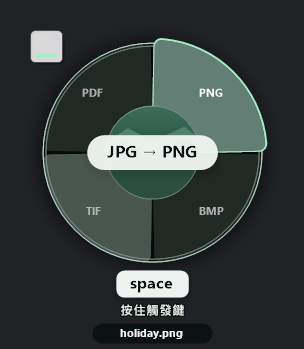
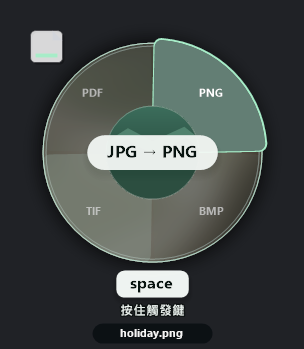
docs: English README with a language switch, and the second-layer wheel

Changed region(s): [[0.1184, 0.1146, 0.8586, 0.7736]]

diff --git a/README.md b/README.md
@@ -1,128 +1,124 @@
 # Confern
 
-**把檔案拖到輪盤上，就開始轉檔。** Windows 10/11 x64 的桌面轉檔工具：拖進來、轉一下、選格式，不用開任何視窗。
+**Hold Alt, drag a file, drop it on the format you want.** A Windows 10/11 desktop converter with no main window: a radial menu appears next to your cursor, you pick a target format, it converts.
 
-[**下載最新版**](https://github.com/bboyjokerd-max/confern/releases/latest) · [授權 MIT](LICENSE) · [回報問題](https://github.com/bboyjokerd-max/confern/issues)
+[**Download**](https://github.com/bboyjokerd-max/confern/releases/latest) · [MIT licence](LICENSE) · [Report a bug](https://github.com/bboyjokerd-max/confern/issues) · **English** | [繁體中文](README.zh-Hant.md)
 
-![拖到輪盤上就開始轉檔](docs/demo/confern-demo.gif)
+![Drag a file onto the wheel to convert it](docs/demo/confern-demo.gif)
 
-<sub>↑ 實際操作畫面（[高畫質 mp4](docs/demo/confern-demo.mp4)）　錄製於 2026-11-03，內容就是這個版本的行為。</sub>
+<sub>↑ Real interaction, recorded 2026-11-03 ([higher quality mp4](docs/demo/confern-demo.mp4)).</sub>
 
 ---
 
-## 畫面
+## What it is
 
-拖什麼檔案，輪盤就長什麼樣子。
+While you drag a file with the trigger key held down (Alt by default), a wheel appears beside the cursor. Its slices are **the formats that file can become**. Drop on a slice to convert; drop on the centre to do nothing. The result lands next to the original.
 
-<table>
-<tr>
-<td align="center"><img src="docs/images/wheel-paid.png" width="300"><br><sub>拖的是圖片：扇形就是這張圖能變成的格式</sub></td>
-<td align="center"><img src="docs/images/wheel-video.png" width="300"><br><sub>拖的是影片，扇形跟著換一批</sub></td>
-</tr>
-<tr>
-<td align="center"><img src="docs/images/wheel-paid-dark.png" width="300"><br><sub>深色桌布下的同一顆輪盤</sub></td>
-<td align="center"><img src="docs/images/settings.png" width="300"><br><sub>設定頁（右鍵托盤圖示）</sub></td>
-</tr>
-</table>
-
-![裁切：拖曳決定要留下哪一塊](docs/images/crop.png)
-
-<sub>裁切視窗：決定要留下哪一塊</sub>
-
-
-<sub>以上都是產品自己的離屏渲染（`--wheel-demo --wheel-dump`、`--settings-ui-dump`、`--crop-ui-dump`），不是螢幕截圖。</sub>
-
-## 這是什麼
-
-按住觸發鍵（預設 Alt）拖著檔案移動時，一個圓形輪盤會出現在游標旁邊，上面是**這個檔案可以轉成的格式**。
-拖到要的扇形上放開，就開始轉；拖到中心，什麼都不做。轉好的檔案出現在原檔旁邊。
-
-沒有主視窗、沒有佇列、沒有要學的介面。它是一個拖曳手勢，不是一個應用程式。
+No main window. No queue. No interface to learn. It is a drag gesture, not an application.
 
 | | |
 |---|---|
-| 影像 | PNG · JPG · BMP · TIF · PDF · WebP（含透明背景） |
-| 影片 | 常見格式互轉、抽音訊 |
-| 文件 | 影像轉 PDF |
-| AI 去背 | **CUTOUT**：拖進來，拿走只剩主角的透明 PNG（付費版） |
+| Images | PNG · JPG · BMP · TIF · PDF · WebP (transparency preserved) |
+| Video | common formats both ways, audio extraction |
+| Documents | images to PDF |
+| AI cutout | **CUTOUT**: drop a photo, get a transparent PNG of the subject (paid edition) |
 
-## 兩個版本，同一份原始碼
+## Two editions, one source
 
-這不是「閹割版 vs 完整版」的行銷話術，是**少一顆工具**。
+This is not "crippled vs complete". The free edition is simply **one tool short**.
 
-| | 免費開源版 | 付費版 |
+| | Free / open source | Paid |
 |---|---|---|
-| 拖曳輪盤轉檔 | ✓ | ✓ |
-| 影片、PDF、批次 | ✓ | ✓ |
-| **CUTOUT（AI 去背）** | — 沒有這顆工具 | ✓ 附 10 次免費額度 |
-| 價格 | 免費 | 授權金鑰，離線驗證 |
+| Wheel conversions | yes | yes |
+| Video, PDF, batch | yes | yes |
+| **CUTOUT (AI background removal)** | does not exist in this build | 10 free uses included |
+| Price | free | licence key, verified offline |
 
-免費版**沒有**去背功能，不是鎖住。少一顆扇形，其餘完全一樣。
+The free edition does not have a locked cutout feature; it has one fewer slice on the wheel.
 
-## 系統需求
+## Screens
 
-- Windows 10 或 11，x64
-- [.NET 8 桌面執行階段](https://dotnet.microsoft.com/download/dotnet/8.0)（安裝程式會檢查，沒有會提示）
+The wheel shows what the dragged file can become. Choose a format and the wheel turns again — **the second layer is what to do with it**.
 
-## 安裝
+<table>
+<tr>
+<td align="center"><img src="docs/images/wheel-paid.png" width="300"><br><sub><b>First layer</b>: an image was dragged, so the slices are its target formats</sub></td>
+<td align="center"><img src="docs/images/wheel-tools-paid.png" width="300"><br><sub><b>Second layer</b>: convert, crop, merge, <b>CUTOUT</b>…</sub></td>
+</tr>
+<tr>
+<td align="center"><img src="docs/images/wheel-video.png" width="300"><br><sub>Drag a video and the slices change with it</sub></td>
+<td align="center"><img src="docs/images/wheel-tools-free.png" width="300"><br><sub>Second layer in the <b>free</b> build — no CUTOUT slice</sub></td>
+</tr>
+</table>
 
-1. 到 [Releases](https://github.com/bboyjokerd-max/confern/releases/latest) 下載安裝檔
-2. 執行，**不需要管理員權限**（裝在使用者資料夾）
-3. 開始拖檔案
+The two second-layer images are genuinely different files (sha256 `42F6A236…` vs `23750A7D…`): that is what "one tool short" looks like.
 
-解除安裝時會問你：要不要一起刪掉設定與授權（預設保留）。
+<table>
+<tr>
+<td align="center"><img src="docs/images/wheel-paid-dark.png" width="300"><br><sub>Same wheel over a dark background</sub></td>
+<td align="center"><img src="docs/images/settings.png" width="300"><br><sub>Settings (right-click the tray icon)</sub></td>
+</tr>
+</table>
 
-## 使用
+![Crop window](docs/images/crop.png)
 
-| 動作 | 怎麼做 |
+<sub>Crop: drag to decide what to keep. Every image above is the product's own offscreen render (`--wheel-demo --wheel-dump`, `--wheel-tools`, `--settings-ui-dump`, `--crop-ui-dump`), not a screenshot of a desktop.</sub>
+
+## Requirements
+
+- Windows 10 or 11, x64
+- [.NET 8 Desktop Runtime](https://dotnet.microsoft.com/download/dotnet/8.0) (the installer checks and tells you)
+
+## Install
+
+1. Get the installer from [Releases](https://github.com/bboyjokerd-max/confern/releases/latest)
+2. Run it — **no administrator rights needed** (it installs per user)
+3. Start dragging files
+
+Uninstalling asks whether to remove your settings and licence too (kept by default).
+
+## Using it
+
+| Action | How |
 |---|---|
-| 叫出輪盤 | 按住 **Alt**，拖著檔案移動 |
-| 選格式 | 拖到對應的扇形上放開 |
-| 取消 | 拖到圓盤中心放開，或按 `Esc` |
-| 監看資料夾 | 設定某個資料夾，丟進去的檔案自動轉 |
-| 批次 | 一次拖多個檔案進來 |
-| 設定 | 右鍵托盤圖示 |
+| Show the wheel | hold **Alt** and drag a file |
+| Pick a format | drop on that slice |
+| Cancel | drop on the centre disc, or press `Esc` |
+| Watch a folder | point the setting at it and forget about it |
+| Batch | drag several files at once |
+| Settings | right-click the tray icon |
 
-轉好的檔案放在**原檔旁邊**，檔名相同、副檔名不同。原檔不會被動到。
+Converted files are written **next to the original** with the same name and a new extension. The original is never modified.
 
-## 命令列
+## Command line
 
-產品自己就是一支可診斷的命令列工具（GUI 沒有主控台，證據寫在日誌與 stderr）：
-
-```
-Confern.exe formats                     列出這台機器支援的格式
-Confern.exe convert in.png -o out.jpg   轉一個檔案
-Confern.exe check-updates               問一次有沒有新版本
-Confern.exe license                     授權狀態
-Confern.exe --help                      全部旗標
-```
-
-## 從原始碼建置
+The product is its own diagnostic tool (it is a GUI process, so evidence goes to stderr and the log file):
 
 ```
-dotnet build src\Sidecar\Sidecar.csproj -c Release                 # 付費版
-dotnet build src\Sidecar\Sidecar.csproj -c Release -p:Edition=Free # 免費版
+Confern.exe formats                     list the formats this machine supports
+Confern.exe convert in.png -o out.jpg   convert one file
+Confern.exe check-updates               ask once whether a newer build exists
+Confern.exe license                     licence state and remaining uses
+Confern.exe --help                      every flag
 ```
 
-需要 .NET 8 SDK。安裝檔用 Inno Setup：`powershell -File tools\build-installer.ps1`。
+## Build from source
 
-## 專案狀態
+```
+dotnet build src\Sidecar\Sidecar.csproj -c Release                 # paid edition
+dotnet build src\Sidecar\Sidecar.csproj -c Release -p:Edition=Free # free edition
+```
 
-早期但可用（`0.1.0`）。驗收是 20 套自動化套件、687 個檢查，跑在真實的視窗與檔案上——
-包括「拖曳途中才拿得到酬載」這種只有實際拖過才知道的事。
+Requires the .NET 8 SDK. Installers: `powershell -File tools\build-installer.ps1` (Inno Setup).
 
-`docs/` 裡有完整的設計規格、逐日進度與一次「假故障稽核」（哪些斷言其實永遠不會紅）。
+## Status
 
-## 授權
+Early but usable (`0.1.0`). Verification is 20 automated suites and 687 checks running against real windows and real files — including things you only learn by actually dragging, like "the payload is only reachable mid-drag".
 
-[MIT](LICENSE)。你可以自由使用、修改、再散布，包含商業用途。
+`docs/` holds the design spec, a daily progress log, and a falsifiability audit (which assertions could never fail).
 
-**誠實說明**：授權是 MIT，所以任何人都能自己編一個沒有 10 次限制的去背版。
-付費版是信任制——我們選擇這樣，因為擋不住的事寫在文件裡比寫在程式裡誠實。
+## Licence
 
----
+[MIT](LICENSE). Use it, modify it, redistribute it, sell it.
 
-<sub>English: Confern is a drag-and-drop file converter for Windows. Hold Alt, drag a file, and a
-radial menu appears with the formats that file can become; drop on a slice to convert. No main
-window. The paid edition adds CUTOUT (AI background removal); the free, open-source edition simply
-does not have that one tool. MIT licensed.</sub>
+**Plainly**: MIT means anyone can build a cutout with no 10-use limit. The paid edition is an honour system — we would rather write that here than pretend a lock exists.

diff --git a/README.zh-Hant.md b/README.zh-Hant.md
@@ -1,0 +1,139 @@
+# Confern
+
+[English](README.md) | **繁體中文**
+
+**把檔案拖到輪盤上，就開始轉檔。** Windows 10/11 x64 的桌面轉檔工具：拖進來、轉一下、選格式，不用開任何視窗。
+
+[**下載最新版**](https://github.com/bboyjokerd-max/confern/releases/latest) · [授權 MIT](LICENSE) · [回報問題](https://github.com/bboyjokerd-max/confern/issues)
+
+![拖到輪盤上就開始轉檔](docs/demo/confern-demo.gif)
+
+<sub>↑ 實際操作畫面（[高畫質 mp4](docs/demo/confern-demo.mp4)）　錄製於 2026-11-03，內容就是這個版本的行為。</sub>
+
+---
+
+## 畫面
+
+拖什麼檔案，輪盤就長什麼樣子。選定格式之後，輪盤再轉一層——**第二層是「要做什麼」**：
+
+<table>
+<tr>
+<td align="center"><img src="docs/images/wheel-tools-paid.png" width="300"><br><sub><b>第二層（付費版）</b>：轉檔、裁切、合併、<b>CUTOUT 去背</b>…</sub></td>
+<td align="center"><img src="docs/images/wheel-tools-free.png" width="300"><br><sub><b>第二層（免費版）</b>：同一支程式，沒有 CUTOUT 那一顆</sub></td>
+</tr>
+</table>
+
+上面兩張是**真的不一樣**（sha256 不同：`42F6A236…` vs `23750A7D…`）——這就是「免費版少一顆工具」的實際樣子。
+
+<table>
+<tr>
+<td align="center"><img src="docs/images/wheel-paid.png" width="300"><br><sub><b>第一層</b>：拖的是圖片，扇形是它<b>能變成</b>的格式</sub></td>
+<td align="center"><img src="docs/images/wheel-video.png" width="300"><br><sub>拖的是影片，扇形跟著換一批</sub></td>
+</tr>
+<tr>
+<td align="center"><img src="docs/images/wheel-paid-dark.png" width="300"><br><sub>深色桌布下的同一顆輪盤</sub></td>
+<td align="center"><img src="docs/images/settings.png" width="300"><br><sub>設定頁（右鍵托盤圖示）</sub></td>
+</tr>
+</table>
+
+![裁切：拖曳決定要留下哪一塊](docs/images/crop.png)
+
+<sub>裁切視窗：決定要留下哪一塊</sub>
+
+
+<sub>以上都是產品自己的離屏渲染（`--wheel-demo --wheel-dump`、`--settings-ui-dump`、`--crop-ui-dump`），不是螢幕截圖。</sub>
+
+## 這是什麼
+
+按住觸發鍵（預設 Alt）拖著檔案移動時，一個圓形輪盤會出現在游標旁邊，上面是**這個檔案可以轉成的格式**。
+拖到要的扇形上放開，就開始轉；拖到中心，什麼都不做。轉好的檔案出現在原檔旁邊。
+
+沒有主視窗、沒有佇列、沒有要學的介面。它是一個拖曳手勢，不是一個應用程式。
+
+| | |
+|---|---|
+| 影像 | PNG · JPG · BMP · TIF · PDF · WebP（含透明背景） |
+| 影片 | 常見格式互轉、抽音訊 |
+| 文件 | 影像轉 PDF |
+| AI 去背 | **CUTOUT**：拖進來，拿走只剩主角的透明 PNG（付費版） |
+
+## 兩個版本，同一份原始碼
+
+這不是「閹割版 vs 完整版」的行銷話術，是**少一顆工具**。
+
+| | 免費開源版 | 付費版 |
+|---|---|---|
+| 拖曳輪盤轉檔 | ✓ | ✓ |
+| 影片、PDF、批次 | ✓ | ✓ |
+| **CUTOUT（AI 去背）** | — 沒有這顆工具 | ✓ 附 10 次免費額度 |
+| 價格 | 免費 | 授權金鑰，離線驗證 |
+
+免費版**沒有**去背功能，不是鎖住。少一顆扇形，其餘完全一樣。
+
+## 系統需求
+
+- Windows 10 或 11，x64
+- [.NET 8 桌面執行階段](https://dotnet.microsoft.com/download/dotnet/8.0)（安裝程式會檢查，沒有會提示）
+
+## 安裝
+
+1. 到 [Releases](https://github.com/bboyjokerd-max/confern/releases/latest) 下載安裝檔
+2. 執行，**不需要管理員權限**（裝在使用者資料夾）
+3. 開始拖檔案
+
+解除安裝時會問你：要不要一起刪掉設定與授權（預設保留）。
+
+## 使用
+
+| 動作 | 怎麼做 |
+|---|---|
+| 叫出輪盤 | 按住 **Alt**，拖著檔案移動 |
+| 選格式 | 拖到對應的扇形上放開 |
+| 取消 | 拖到圓盤中心放開，或按 `Esc` |
+| 監看資料夾 | 設定某個資料夾，丟進去的檔案自動轉 |
+| 批次 | 一次拖多個檔案進來 |
+| 設定 | 右鍵托盤圖示 |
+
+轉好的檔案放在**原檔旁邊**，檔名相同、副檔名不同。原檔不會被動到。
+
+## 命令列
+
+產品自己就是一支可診斷的命令列工具（GUI 沒有主控台，證據寫在日誌與 stderr）：
+
+```
+Confern.exe formats                     列出這台機器支援的格式
+Confern.exe convert in.png -o out.jpg   轉一個檔案
+Confern.exe check-updates               問一次有沒有新版本
+Confern.exe license                     授權狀態
+Confern.exe --help                      全部旗標
+```
+
+## 從原始碼建置
+
+```
+dotnet build src\Sidecar\Sidecar.csproj -c Release                 # 付費版
+dotnet build src\Sidecar\Sidecar.csproj -c Release -p:Edition=Free # 免費版
+```
+
+需要 .NET 8 SDK。安裝檔用 Inno Setup：`powershell -File tools\build-installer.ps1`。
+
+## 專案狀態
+
+早期但可用（`0.1.0`）。驗收是 20 套自動化套件、687 個檢查，跑在真實的視窗與檔案上——
+包括「拖曳途中才拿得到酬載」這種只有實際拖過才知道的事。
+
+`docs/` 裡有完整的設計規格、逐日進度與一次「假故障稽核」（哪些斷言其實永遠不會紅）。
+
+## 授權
+
+[MIT](LICENSE)。你可以自由使用、修改、再散布，包含商業用途。
+
+**誠實說明**：授權是 MIT，所以任何人都能自己編一個沒有 10 次限制的去背版。
+付費版是信任制——我們選擇這樣，因為擋不住的事寫在文件裡比寫在程式裡誠實。
+
+---
+
+<sub>English: Confern is a drag-and-drop file converter for Windows. Hold Alt, drag a file, and a
+radial menu appears with the formats that file can become; drop on a slice to convert. No main
+window. The paid edition adds CUTOUT (AI background removal); the free, open-source edition simply
+does not have that one tool. MIT licensed.</sub>
